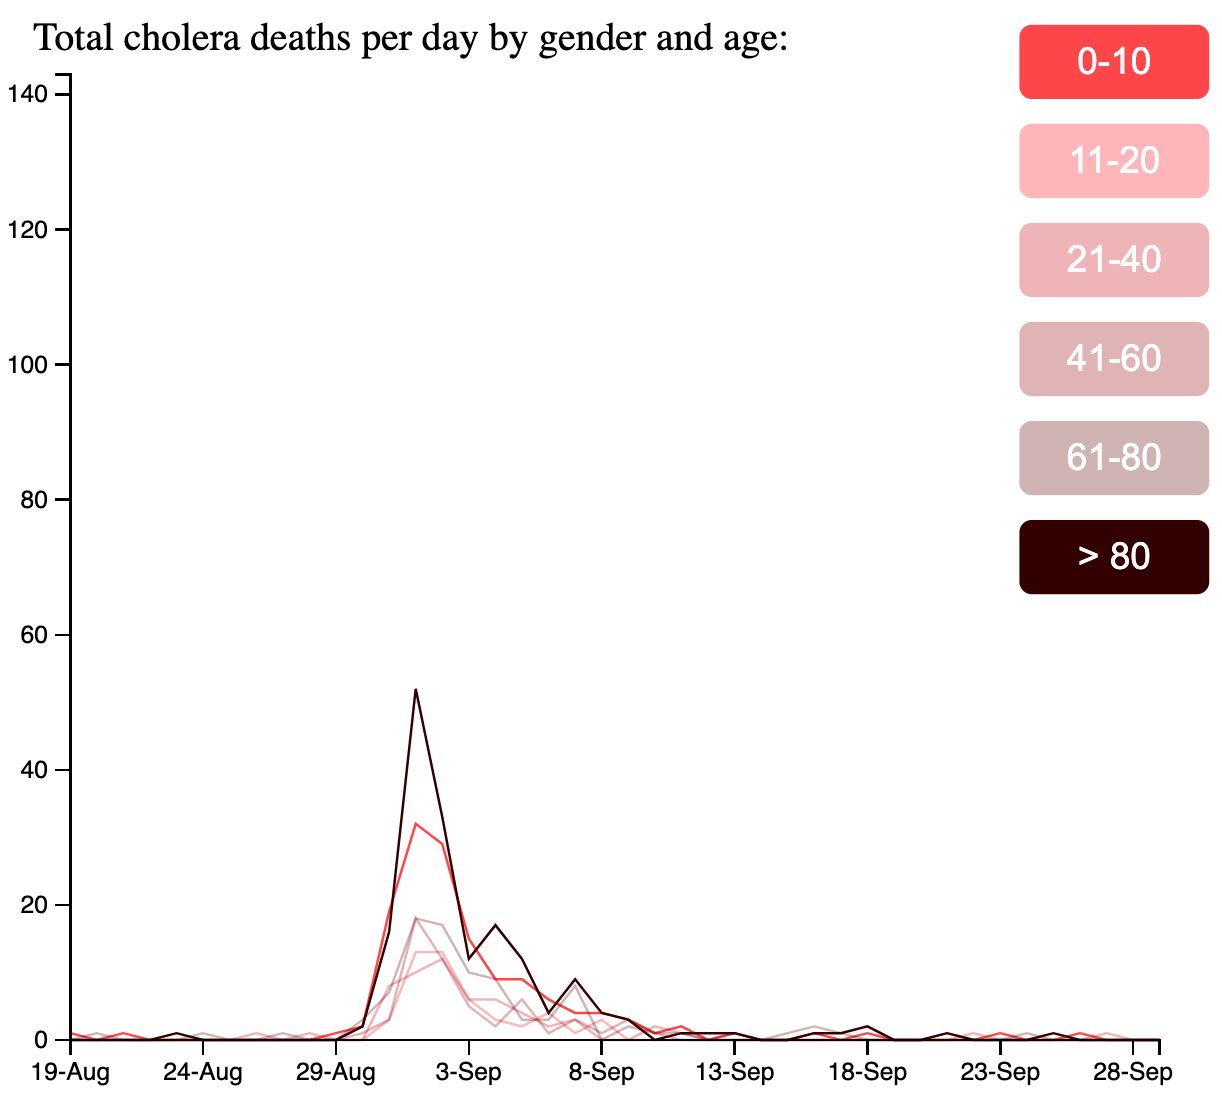
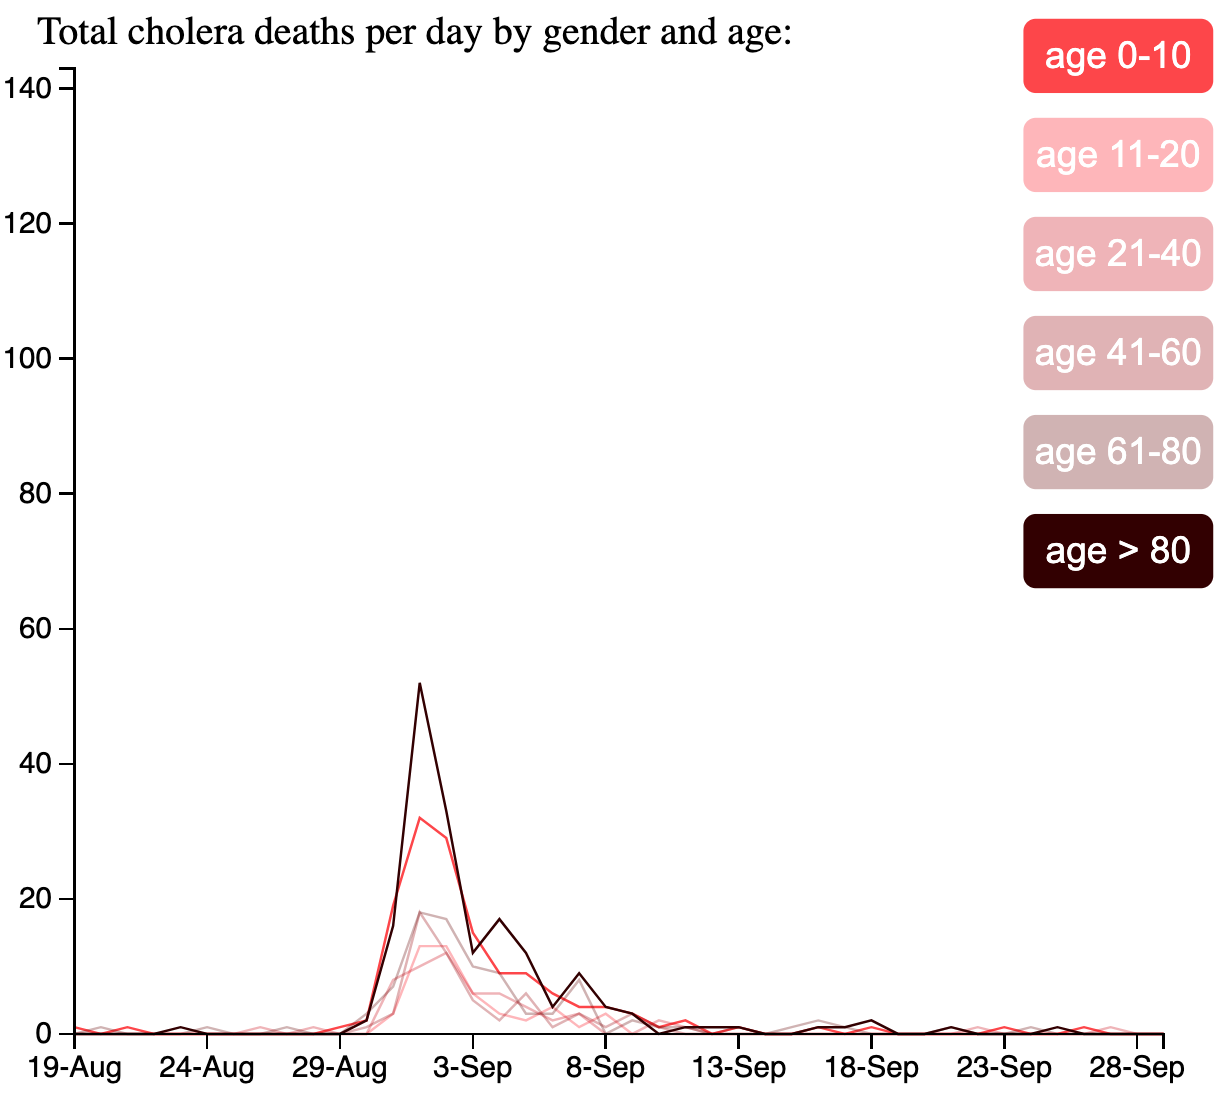
Updated Visuals

Changed region(s): [[0.0, 0.0, 0.964, 0.9891], [0.8085, 0.0, 0.9951, 0.5564]]

diff --git a/index.html b/index.html
@@ -33,7 +33,7 @@
 		}
 		
 		svg .deathhoverbar:hover {
-			fill-opacity: .3;
+			fill-opacity: .6;
 		}
 		
 		svg .graphbutton {
@@ -56,7 +56,7 @@
 
 		.axis text {
 			font-family: sans-serif;
-			font-size: 10px;
+			font-size: 12px;
 			fill: black;
 		}
 		
@@ -77,7 +77,7 @@
 			The Broad Street cholera outbreak was a severe outbreak of cholera in 1854 near Broad Street in the Soho district of the City of Westminster, London, England, and occurred during the 1846–1860 cholera pandemic happening worldwide. This outbreak, which killed 616 people, is best known for the physician John Snow's study of its causes and his hypothesis that germ-contaminated water was the source of cholera, rather than particles in the air. Snow later used a dot map to illustrate how cases of cholera occurred around this pump. Snow's efforts to connect cholera incidence with potential geographic sources were based on creating what is now known as a Voronoi diagram. He mapped the locations of individual water pumps and generated cells that represented all the points on his map closest to each pump. The section of Snow's map representing areas in the city where the closest available water source was the Broad Street pump included the highest incidence of cholera cases. <a href="https://en.wikipedia.org/wiki/1854_Broad_Street_cholera_outbreak">(via Wikipedia)</a>
 			</p>
 			<p>
-			This project was based on the original map, by John Snow, to show the clusters of cholera deaths (indicated by red circles) and water pumps in the area (indicated by black squares). When viewing this visual, there is a strong correlation between cholera deaths to a water pump on Broad Street. Click the play button below to watch a YouTube video showing the use of the visualization with narration. 
+			This project was based on the original map, by John Snow, to show the clusters of cholera deaths (indicated by red circles) and water pumps in the area (indicated by black squares). When viewing this visual, there is a strong correlation between cholera deaths to a water pump on Broad Street. Click the play button below to watch a YouTube video showing the use of the visualization with narration. <b>I made a few edits to my visuals after making the video below.</b>
 			</p>
 		</div>
 		<br/><br/>
@@ -122,32 +122,32 @@
 		
 		let ageRanges = [
 			{
-				label: '0-10',
+				label: 'age 0-10',
 				opacity: 1,
 				color: '#FF4444'
 			},
 			{
-				label: '11-20',
+				label: 'age 11-20',
 				opacity: 1,
 				color: '#FF0000'
 			},
 			{
-				label: '21-40',
+				label: 'age 21-40',
 				opacity: 1,
 				color: '#CC0000'
 			},
 			{
-				label: '41-60',
+				label: 'age 41-60',
 				opacity: 1,
 				color: '#990000'
 			},
 			{
-				label: '61-80',
+				label: 'age 61-80',
 				opacity: 1,
 				color: '#660000'
 			},
 			{
-				label: '> 80',
+				label: 'age > 80',
 				opacity: 1,
 				color: '#330000'
 			}
@@ -365,7 +365,7 @@
 			graph.append('text')
 				.attr('id', 'buttontotallabel')
 				.attr('class', 'graphbuttonlabel')
-				.text('Total')
+				.text('Total Deaths')
 				.attr('x', buttonPadding + buttonWidth / 2)
 				.attr('y', graphHeight + buttonPadding + buttonHeight / 2 + 
 					buttonLabelYAdjust)
@@ -388,7 +388,7 @@
 			graph.append('text')
 				.attr('id', 'buttongenderlabel')
 				.attr('class', 'graphbuttonlabel')
-				.text('Gender')
+				.text('Deaths by Gender')
 				.attr('x', buttonPadding * 2 + buttonWidth * 1.5)
 				.attr('y', graphHeight + buttonPadding + buttonHeight / 2 + 
 					buttonLabelYAdjust)
@@ -411,7 +411,7 @@
 			graph.append('text')
 				.attr('id', 'buttonagelabel')
 				.attr('class', 'graphbuttonlabel')
-				.text('Age')
+				.text('Deaths by Age')
 				.attr('x', buttonPadding * 3 + buttonWidth * 2.5)
 				.attr('y', graphHeight + buttonPadding + buttonHeight / 2 + 
 					buttonLabelYAdjust)

diff --git a/documentation.html b/documentation.html
@@ -93,7 +93,7 @@
 				Khairi Reda. “Project 1: H517 Visualization Design, Analysis, and Evaluation.”, khreda.com/teaching/2020/H517/project1/.
 				<br/>
 				<br/>
-				<b>Used pieces of code from these sites:</b>
+				<b>I used these visuals to help craft my project:</b>
 				<br/>
 				<br/>
 				https://linzhao15.github.io/documentation
